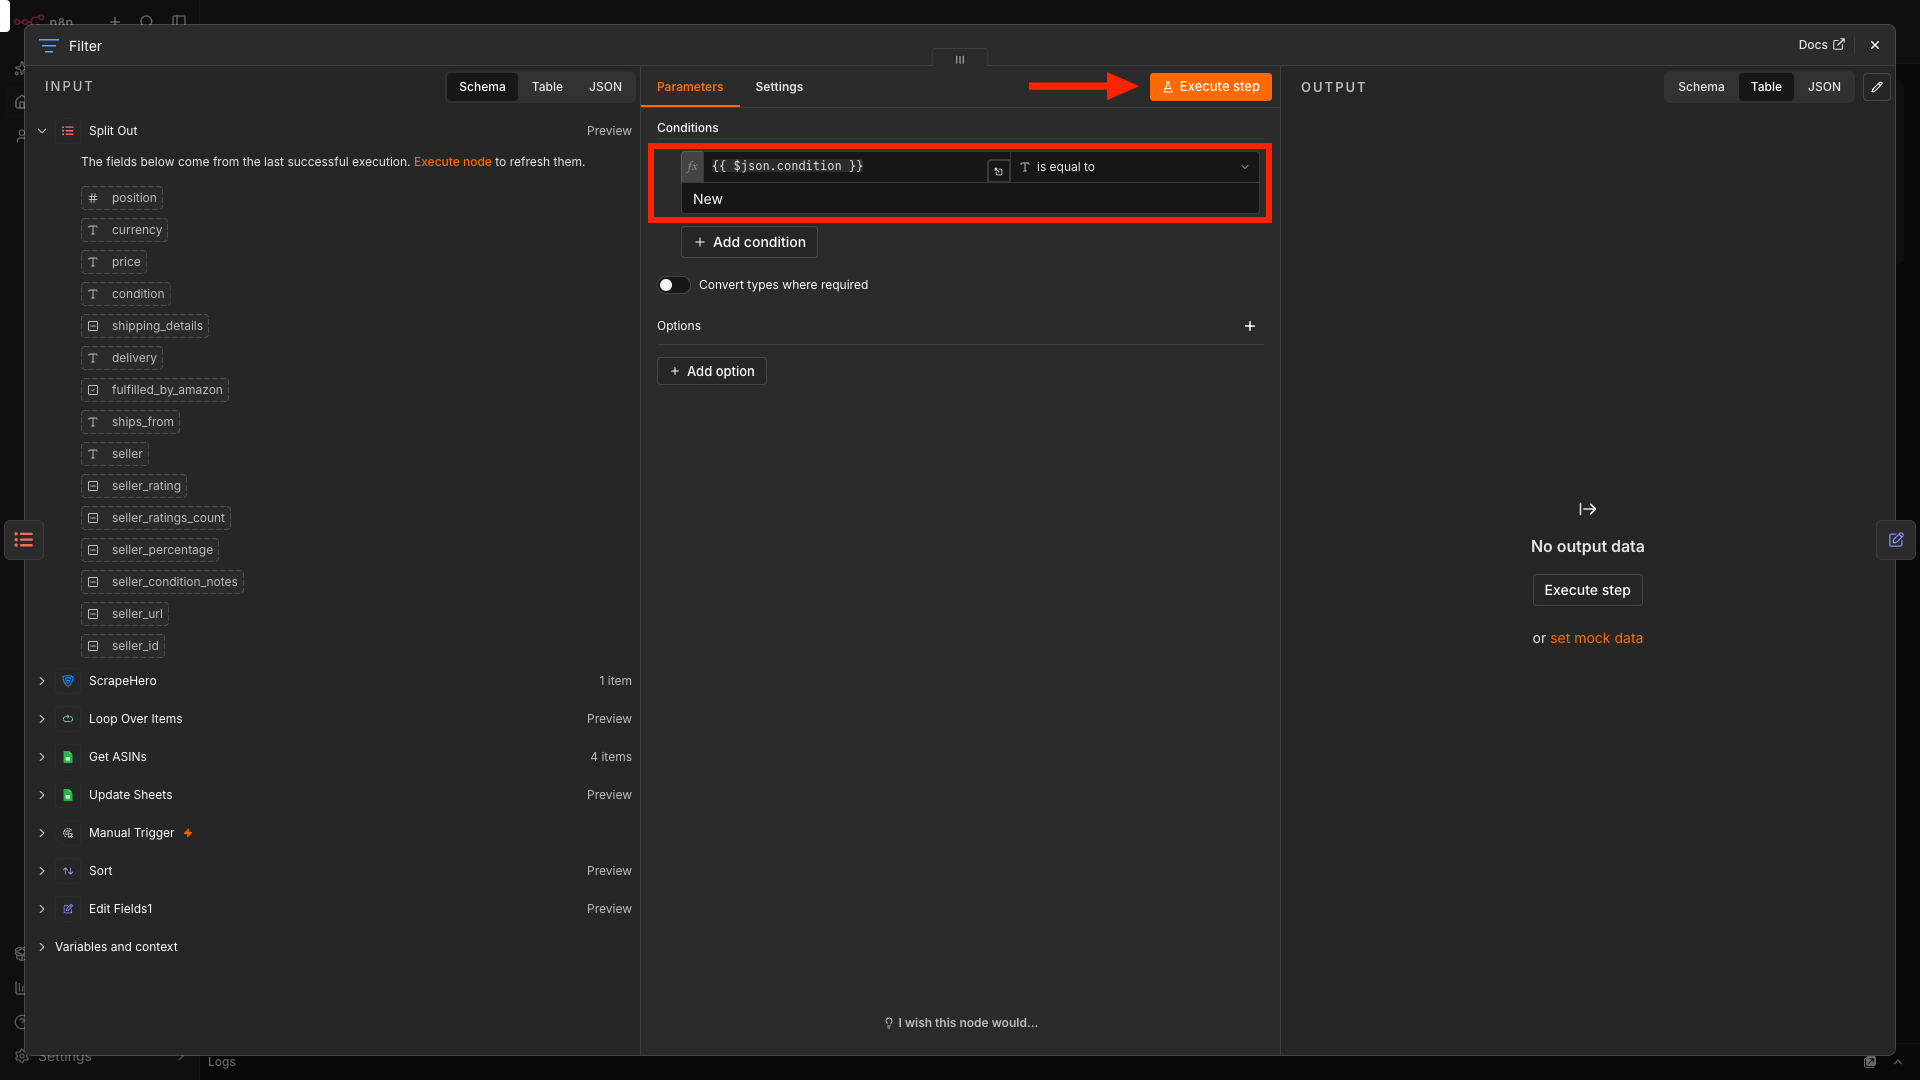
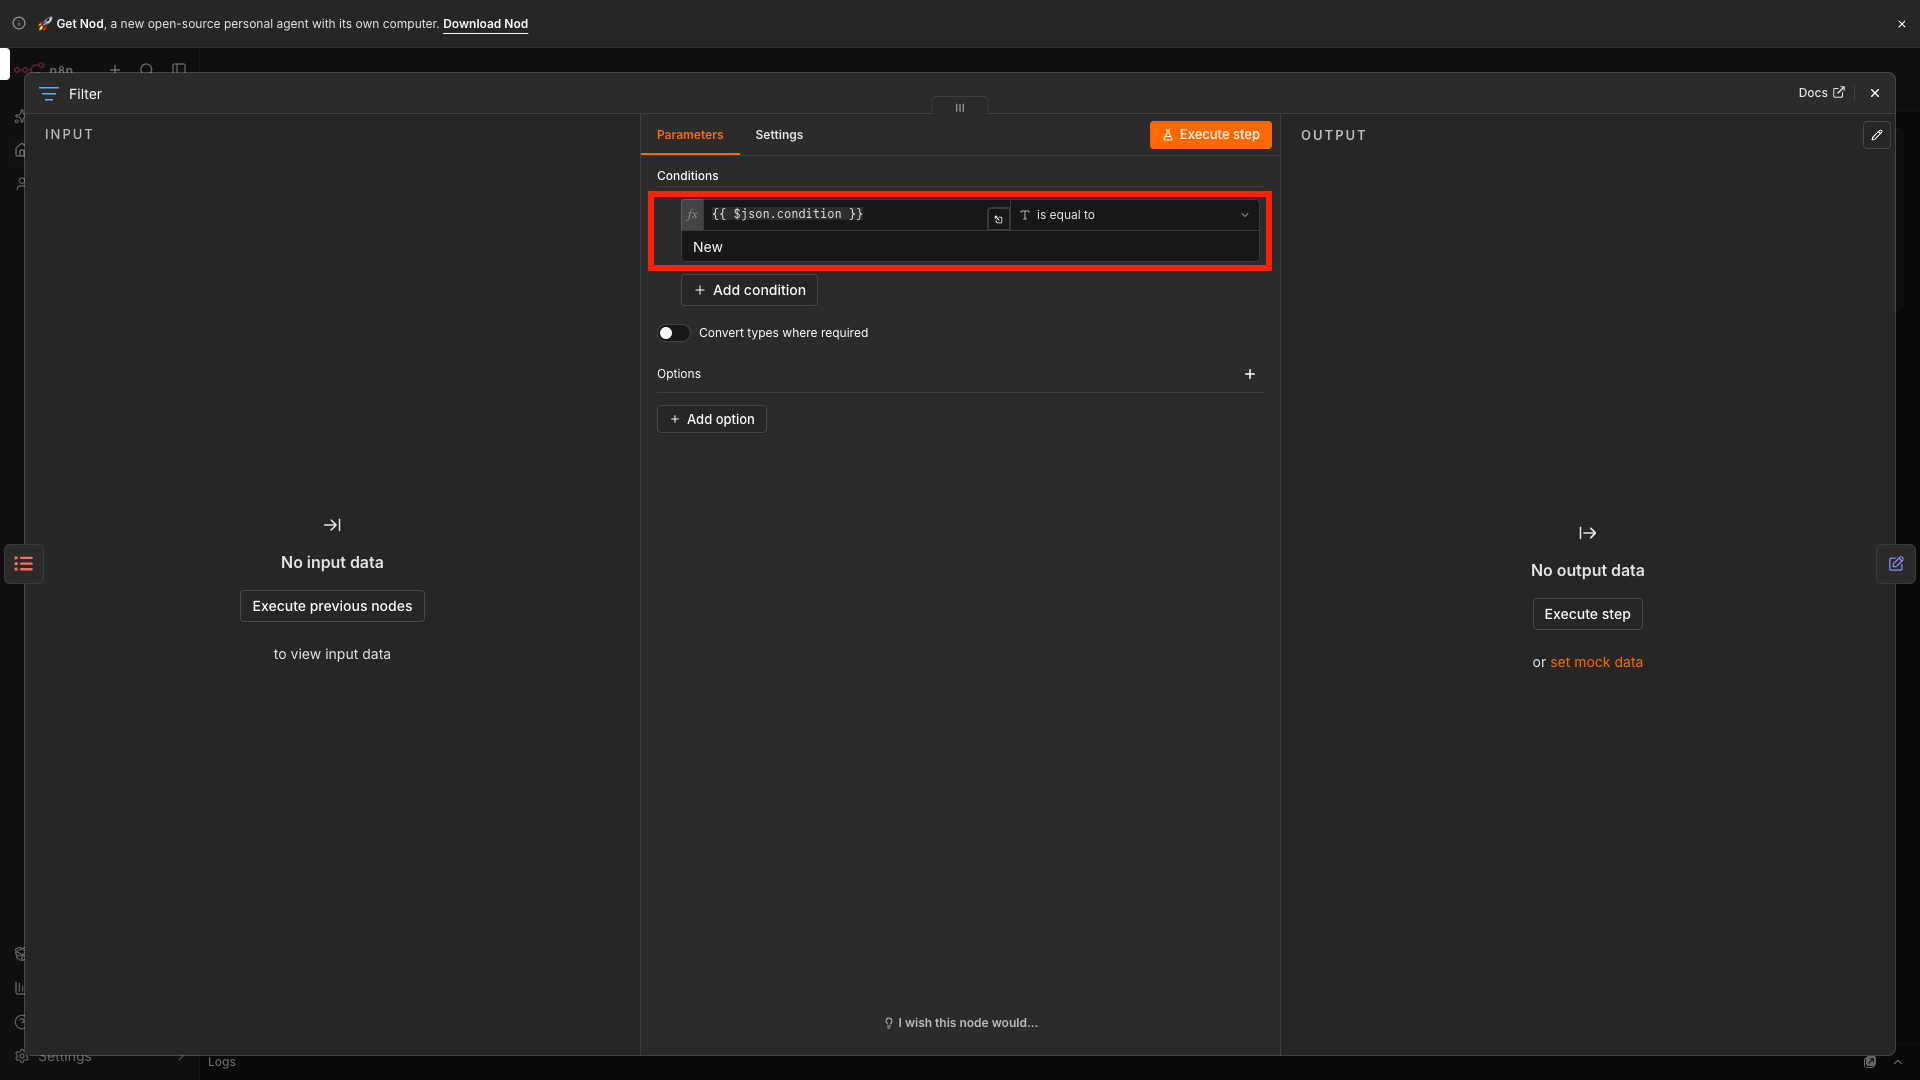
Show Execute step arrow only when explicitly mentioned in article step

diff --git a/utils/browser_capture.py b/utils/browser_capture.py
@@ -135,7 +135,43 @@ def get_param_group_box(page, param_keywords: List[str]) -> Optional[tuple]:
     max_y = max(b['y'] + b['height'] for b in boxes) + pad
     return (int(min_x), int(min_y), int(max_x), int(max_y))
 
-def apply_ndv_markup(node_name: str, shot_path: str, page):
+def get_image_execute_map(article_path: str) -> Dict[str, bool]:
+    """
+    Parses article.md to determine which image/step explicitly mentions clicking Execute Step.
+    Returns a dictionary mapping sanitized filename and alt text to a boolean.
+    """
+    if not os.path.exists(article_path):
+        return {}
+        
+    with open(article_path, 'r', encoding='utf-8') as f:
+        content = f.read()
+        
+    lines = content.split('\n')
+    current_section = []
+    image_exec_map = {}
+    
+    def process_section(sec_lines):
+        text = '\n'.join(sec_lines)
+        has_exec = bool(re.search(r'\b(?:execute\s+step|test\s+(?:the\s+)?step|click\s+(?:\*\*)?execute\s+step\b)', text, re.IGNORECASE))
+        imgs = re.findall(r'!\[([^\]]*)\]\(([^)]+)\)', text)
+        for alt, src in imgs:
+            fn = os.path.basename(src)
+            image_exec_map[fn] = has_exec
+            image_exec_map[alt.lower()] = has_exec
+
+    for line in lines:
+        if line.startswith('## ') or line.startswith('### '):
+            if current_section:
+                process_section(current_section)
+            current_section = [line]
+        else:
+            current_section.append(line)
+    if current_section:
+        process_section(current_section)
+        
+    return image_exec_map
+
+def apply_ndv_markup(node_name: str, shot_path: str, page, show_execute_arrow: bool = False):
     """Dynamically applies bounding boxes and action arrows using live DOM element metrics."""
     nl = node_name.lower()
     
@@ -164,14 +200,16 @@ def apply_ndv_markup(node_name: str, shot_path: str, page):
         markup_helper.draw_box(shot_path, x1=box[0], y1=box[1], x2=box[2], y2=box[3], stroke_width=6)
         print(f"   📦 Applied dynamic parameter box: {box}")
 
-    # 2. Horizontal Arrow on Execute step button (with exact 10px margin)
-    exec_btn = page.locator('button:has-text("Execute step"), button:has-text("Test step")').first
-    if exec_btn.count() > 0 and exec_btn.is_visible():
-        btn_box = exec_btn.bounding_box()
-        if btn_box:
-            tip_x = int(btn_box['x'] - 10)
-            tip_y = int(btn_box['y'] + btn_box['height'] / 2)
-            markup_helper.draw_arrow(shot_path, tip_x=tip_x, tip_y=tip_y, direction="right", length=110, out_path=shot_path)
+    # 2. Horizontal Arrow on Execute step button (only if explicitly mentioned in the article step)
+    if show_execute_arrow:
+        exec_btn = page.locator('button:has-text("Execute step"), button:has-text("Test step")').first
+        if exec_btn.count() > 0 and exec_btn.is_visible():
+            btn_box = exec_btn.bounding_box()
+            if btn_box:
+                tip_x = int(btn_box['x'] - 10)
+                tip_y = int(btn_box['y'] + btn_box['height'] / 2)
+                markup_helper.draw_arrow(shot_path, tip_x=tip_x, tip_y=tip_y, direction="right", length=110, out_path=shot_path)
+                print(f"   🎯 Applied arrow to Execute step button at ({tip_x}, {tip_y})")
 
     # 3. Diagonal Arrow on Pin Data icon (only if pinned banner or pin icon is visible)
     pinned_banner = page.locator('text="This data is pinned"').first
@@ -222,6 +260,7 @@ def auto_capture_article(article_dir: str, workflow_id: Optional[str] = None, th
         page.wait_for_timeout(1000)
 
         items = screenshot_manager.parse_article_images(article_path)
+        image_exec_map = get_image_execute_map(article_path)
 
         # 1. Capture Overview / Complete Workflow Canvas (clean, no markup)
         for it in items:
@@ -335,8 +374,9 @@ def auto_capture_article(article_dir: str, workflow_id: Optional[str] = None, th
                         fn = screenshot_manager.sanitize_filename(mit["alt_text"])
                         fp = os.path.join(images_dir, fn)
                         page.screenshot(path=fp)
-                        apply_ndv_markup(node_name, fp, page)
-                        print(f"   ✅ Saved full NDV snapshot: images/{fn}")
+                        show_exec = image_exec_map.get(fn, False) or image_exec_map.get(mit["alt_text"].lower(), False)
+                        apply_ndv_markup(node_name, fp, page, show_execute_arrow=show_exec)
+                        print(f"   ✅ Saved full NDV snapshot (execute_arrow={show_exec}): images/{fn}")
 
                 page.keyboard.press("Escape")
                 page.wait_for_timeout(700)
